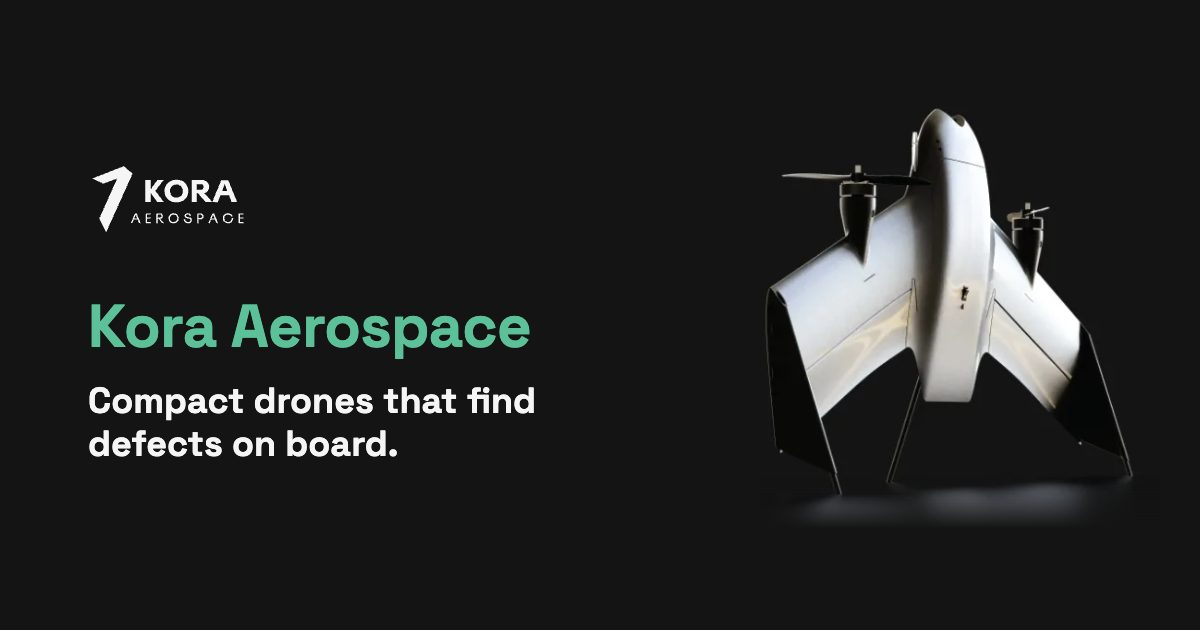
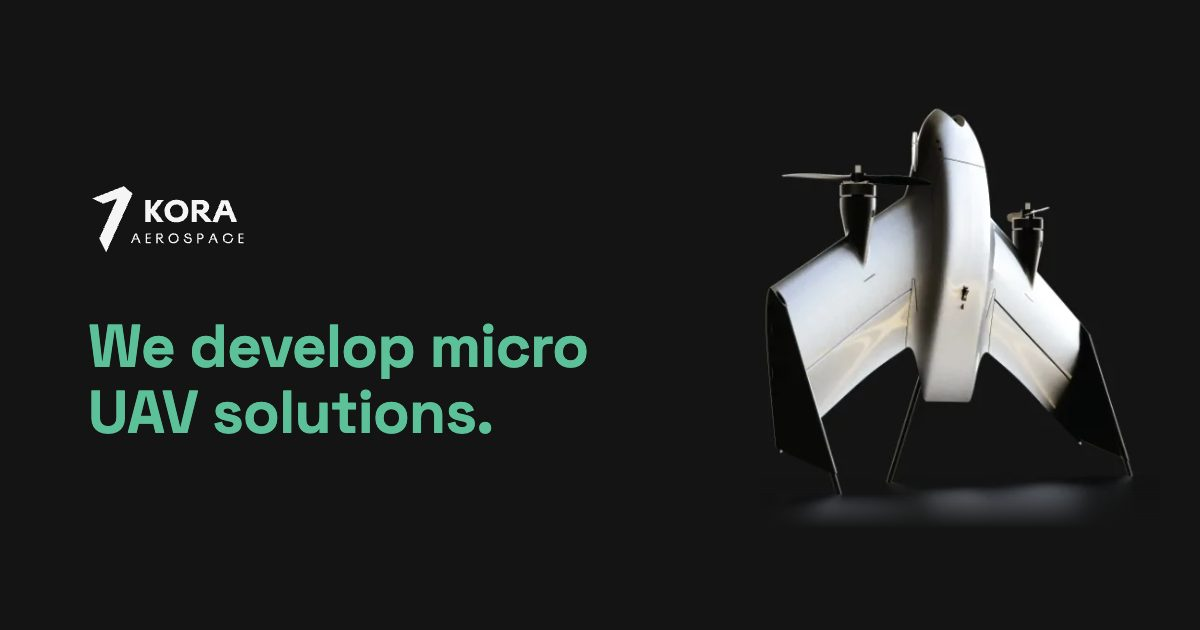
Products page in design v2
Message: "We develop micro UAV solutions." Products section with
Stratus and the Kora Flight Controller, each one line and four
features. Removed the spec line, segment list and partner terms.

Design v2 tokens and the designer's review: no divider lines, section
padding from --kora-section, larger type steps, 36ch text. Each image
section is at least one screen minus the section padding, so a
section-aligned screen shows one headline at any height.

Nav: 48px between items, small text, wraps under the logo below
about 350px instead of running off the edge.

Copy passed through the humanizer skill.

Claude-Session: https://claude.ai/code/session_01MxMyRXhMBTxKJm4Ge5ATvu

Changed region(s): [[0.0617, 0.4825, 0.4933, 0.7238], [0.0617, 0.2714, 0.2158, 0.3921]]

diff --git a/index.html b/index.html
@@ -3,15 +3,15 @@
 <head>
   <meta charset="utf-8">
   <meta name="viewport" content="width=device-width, initial-scale=1">
-  <title>Kora Aerospace | Compact inspection drones with AI on board</title>
-  <meta name="description" content="Kora Aerospace builds compact drones that find defects on board, for the inspection job of each customer.">
+  <title>Kora Aerospace | Micro UAV solutions</title>
+  <meta name="description" content="We develop micro UAV solutions: the Stratus micro VTOL tailsitter and the Kora Flight Controller, for energy and infrastructure inspection.">
   <meta name="color-scheme" content="dark">
   <meta name="theme-color" content="#141414">
   <link rel="canonical" href="https://www.kora-aerospace.com/">
   <meta property="og:type" content="website">
   <meta property="og:url" content="https://www.kora-aerospace.com/">
   <meta property="og:title" content="Kora Aerospace">
-  <meta property="og:description" content="Compact inspection drones with AI on board, built for your job.">
+  <meta property="og:description" content="We develop micro UAV solutions for energy and infrastructure inspection.">
   <meta property="og:image" content="https://www.kora-aerospace.com/media/og.jpg">
   <link rel="icon" href="/favicon.ico" sizes="48x48">
   <link rel="icon" href="/favicon.svg" type="image/svg+xml">
@@ -23,39 +23,51 @@
 <body>
   <header class="wrap top">
     <a href="/"><img src="/media/logo.svg" alt="Kora Aerospace" width="120" height="56"></a>
-    <a href="#contact">Contact</a>
+    <nav><a href="#products">Products</a><a href="#contact">Contact</a></nav>
   </header>
 
   <main>
     <section class="wrap hero">
+      <h1>We develop micro UAV solutions.</h1>
+      <p class="lead">We design drones and flight controllers for energy and infrastructure inspection.</p>
+      <p class="actions"><a class="btn" href="#contact">Contact us</a></p>
+    </section>
+
+    <section class="wrap split" id="products">
+      <!-- PLACEHOLDER: 433px crop of the poster render, shown at native size; need the source render file -->
+      <img src="/media/render.webp" alt="Stratus micro VTOL tailsitter, standing on its tail" width="433" height="462" class="render">
       <div class="text">
-        <h1>Kora Aerospace</h1>
-        <p class="statement">Compact drones that find defects on board.</p>
-        <p class="lead">You tell us what you must inspect. We build the drone for the job.</p>
-        <p><a class="btn" href="#contact">Become a partner</a></p>
+        <p class="label">Drone</p>
+        <h2>Stratus</h2>
+        <p class="lead">Stratus is our micro VTOL tailsitter for inspection.</p>
+        <ul class="features">
+          <li>Takes off and lands vertically, cruises on a wing</li>
+          <li>Fits in a briefcase</li>
+          <li>Finds defects in flight with on-board AI</li>
+          <li>Carries the payload your job needs</li>
+        </ul>
       </div>
-      <!-- PLACEHOLDER: low-res crop of the poster render; need the source render file -->
-      <img class="render" src="/media/render.webp" alt="Kora tailsitter VTOL drone, standing on its tail" width="433" height="462" fetchpriority="high">
+    </section>
+
+    <section class="wrap split flip">
+      <img src="/media/board.webp" alt="Kora Flight Controller with an NVIDIA Jetson module mounted" width="1088" height="1552" loading="lazy" decoding="async">
+      <div class="text">
+        <p class="label">Avionics</p>
+        <h2>Kora Flight Controller</h2>
+        <p class="lead">Our flight controller puts the autopilot and an AI computer on one board.</p>
+        <ul class="features">
+          <li>Takes an NVIDIA Jetson module</li>
+          <li>Fits in a micro UAV</li>
+          <li>Processes images in flight without a cloud link</li>
+          <li>Can take another AI module when your job needs it</li>
+        </ul>
+      </div>
     </section>
 
     <section class="wrap split">
       <div class="text">
-        <h2>Defects found during the flight.</h2>
-        <p class="lead">An NVIDIA Jetson on our own flight controller. No cloud link: your data stays with you.</p>
-      </div>
-      <img src="/media/board.webp" alt="Kora flight controller board with an NVIDIA Jetson module mounted" width="772" height="1100" loading="lazy" decoding="async">
-    </section>
-
-    <section class="wrap">
-      <h2>Fits in a briefcase.</h2>
-      <p class="lead">A fixed-wing tailsitter VTOL. One technician carries it to the site.</p>
-      <p class="label"><span>1.3–1.5 kg</span> · <span>500 g payload</span> · <span>~45 min flight*</span> · <span>~30 km range*</span></p>
-      <p class="note">* With payload. Team figures, not yet measured on a customer mission.</p>
-    </section>
-
-    <section class="wrap split flip">
-      <div class="text">
-        <h2>Every layer in house.</h2>
+        <h2>We build for your field.</h2>
+        <p class="lead">We fit the drone and its payload to your job, and we make every layer ourselves.</p>
         <!-- Icons: Lucide 1.47.0 (ISC, see LICENSES/) -->
         <ul class="layers">
           <li><svg class="icon" viewBox="0 0 24 24" aria-hidden="true"><rect width="18" height="18" x="3" y="3" rx="2"/><path d="M11 9h4a2 2 0 0 0 2-2V3"/><circle cx="9" cy="9" r="2"/><path d="M7 21v-4a2 2 0 0 1 2-2h4"/><circle cx="15" cy="15" r="2"/></svg>Circuit board</li>
@@ -63,38 +75,15 @@
           <li><svg class="icon" viewBox="0 0 24 24" aria-hidden="true"><path d="M12 20v2M12 2v2M17 20v2M17 2v2M2 12h2M2 17h2M2 7h2M20 12h2M20 17h2M20 7h2M7 20v2M7 2v2"/><rect x="4" y="4" width="16" height="16" rx="2"/><rect x="8" y="8" width="8" height="8" rx="1"/></svg>On-board AI</li>
           <li><svg class="icon" viewBox="0 0 24 24" aria-hidden="true"><path d="M18 5a2 2 0 0 1 2 2v8.526a2 2 0 0 0 .212.897l1.068 2.127a1 1 0 0 1-.9 1.45H3.62a1 1 0 0 1-.9-1.45l1.068-2.127A2 2 0 0 0 4 15.526V7a2 2 0 0 1 2-2z"/><path d="M20.054 15.987H3.946"/></svg>Ground software</li>
         </ul>
-        <p class="lead">A change does not wait for a supplier. Team experience: light aircraft, custom avionics, embedded AI, production.</p>
       </div>
-      <figure>
-        <img src="/media/wing.webp" alt="Hand holding a white flying-wing drone in a field" width="1400" height="694" loading="lazy" decoding="async">
-        <figcaption>Flying wing built and flown by the team, 2025.</figcaption>
-      </figure>
-    </section>
-
-    <section class="wrap">
-      <h2>For teams that inspect far from the office.</h2>
-      <ul class="grid">
-        <li><h3>Corridors</h3><p>Power lines, pipelines, railways.</p></li>
-        <li><h3>Remote sites</h3><p>Solar and wind farms, mines, telecom towers.</p></li>
-        <li><h3>Your own staff</h3><p>Your technicians fly it. We do not sell pilot days.</p></li>
-      </ul>
-    </section>
-
-    <section class="wrap">
-      <h2>How it works.</h2>
-      <ol class="grid">
-        <li><p class="label">01</p><h3>Development</h3><p>You fund the development of your drone.</p></li>
-        <li><p class="label">02</p><h3>Drones</h3><p>You buy the drones.</p></li>
-        <li><p class="label">03</p><h3>Software</h3><p>Yearly subscription: mission planning, data, defect reports.</p></li>
-      </ol>
+      <img src="/media/wing.webp" alt="A flying-wing drone built and flown by the Kora team, held by hand in a field" width="1600" height="794" loading="lazy" decoding="async">
     </section>
 
     <section class="wrap contact" id="contact">
-      <h2>We are looking for our first partner customer.</h2>
-      <p class="lead">The partner funds the first development. We build the drone for its need.</p>
+      <h2>Tell us what you must inspect.</h2>
       <!-- PLACEHOLDER: company mail address -->
       <div class="links">
-        <a class="btn" href="mailto:kora.aerospace@gmail.com?subject=Partner%20inquiry">Become a partner</a>
+        <a class="btn" href="mailto:kora.aerospace@gmail.com">Contact us</a>
         <a href="mailto:kora.aerospace@gmail.com?subject=Investor%20inquiry">Investors and programs</a>
         <a href="https://student.kora-aerospace.com/">Join the student team</a>
       </div>
@@ -102,7 +91,7 @@
   </main>
 
   <footer class="wrap">
-    <span>© 2026 Kora Aerospace · ODTÜ Teknokent pre-incubation</span>
+    <span>© 2026 Kora Aerospace · In the ODTÜ Teknokent pre-incubation program</span>
     <a href="mailto:kora.aerospace@gmail.com">kora.aerospace@gmail.com</a>
     <!-- PLACEHOLDER: confirm the LinkedIn page exists -->
     <a href="https://www.linkedin.com/company/kora-aerospace">LinkedIn</a>

diff --git a/styles.css b/styles.css
@@ -1,4 +1,4 @@
-/* Layout only. Colors, type and space come from tokens.css (design/tokens.css). */
+/* Layout only. Colors, type and space come from tokens.css (copy of design/tokens.css). */
 
 /* Self-hosted fonts (SIL OFL 1.1, see LICENSES/): faster than Google Fonts and no visitor data to Google. */
 @font-face { font-family: 'Space Grotesk'; font-weight: 400 700; font-display: swap; src: url(/fonts/space-grotesk-latin.woff2) format('woff2'); unicode-range: U+0000-00FF, U+0131, U+0152-0153, U+02BB-02BC, U+02C6, U+02DA, U+02DC, U+0304, U+0308, U+0329, U+2000-206F, U+20AC, U+2122, U+2191, U+2193, U+2212, U+2215, U+FEFF, U+FFFD; }
@@ -17,70 +17,70 @@ body {
 @media (prefers-reduced-motion: no-preference) { html { scroll-behavior: smooth; } }
 img { display: block; max-width: 100%; height: auto; }
 a { color: inherit; transition: color var(--kora-ease), background-color var(--kora-ease); }
-h1, h2, h3, p, ul, ol, figure { margin: 0; }
-h1, h2, h3, .statement { font-weight: 700; line-height: var(--kora-lh-tight); }
+h1, h2, h3, p, ul, figure { margin: 0; }
+h1, h2, h3 { font-weight: 700; line-height: var(--kora-lh-tight); letter-spacing: -0.02em; text-wrap: balance; }
 
-/* Scale: display, h1, h2, body, small, label. */
-h1 { font-size: var(--kora-fs-display); color: var(--kora-green); letter-spacing: -0.02em; }
-h2, .statement { font-size: var(--kora-fs-h1); letter-spacing: -0.01em; }
+/* Scale: display, h1, h2, lead, body, small, label. */
+h1 { font-size: var(--kora-fs-display); color: var(--kora-green); }
+h2 { font-size: var(--kora-fs-h1); }
 h3 { font-size: var(--kora-fs-h2); }
-.lead { color: var(--kora-text-muted); max-width: 44ch; }
-.note, figcaption, footer { font-size: var(--kora-fs-small); color: var(--kora-text-muted); }
-.label { font: 400 var(--kora-fs-label)/var(--kora-lh) var(--kora-font-mono); text-transform: uppercase; letter-spacing: 0.12em; }
-.label span { white-space: nowrap; }
+.lead { font-size: var(--kora-fs-lead); color: var(--kora-text-muted); max-width: var(--kora-measure); }
+.label { font: 400 var(--kora-fs-label)/var(--kora-lh) var(--kora-font-mono); text-transform: uppercase; letter-spacing: 0.12em; color: var(--kora-text-muted); }
+footer { font-size: var(--kora-fs-small); color: var(--kora-text-muted); }
 
-.wrap { max-width: var(--kora-max); margin-inline: auto; padding-inline: var(--kora-s2); }
-section { padding-block: calc(var(--kora-s12) / 2); border-top: 1px solid var(--kora-line); }
-section > * + *, .text > * + * { margin-top: var(--kora-s2); }
-section > .grid, .links { margin-top: var(--kora-s6); }
+/* Space: one idea per screen, empty space instead of lines. */
+.wrap { max-width: calc(var(--kora-max) + 2 * var(--kora-gutter)); margin-inline: auto; padding-inline: var(--kora-gutter); }
+section { padding-block: var(--kora-section); }
+section > * + *, .text > * + * { margin-top: var(--kora-stack); }
+.text > .label + h2 { margin-top: var(--kora-s2); }
+.actions, .links, .features, .layers { margin-top: var(--kora-s6); }
 
 .top { display: flex; align-items: center; justify-content: space-between; padding-block: var(--kora-s3); }
+/* Wraps below the logo only on very narrow screens, so no item is ever cut off. */
+.top { flex-wrap: wrap; gap: var(--kora-s2); }
+.top nav { display: flex; gap: var(--kora-s6); font-size: var(--kora-fs-small); }
 .top a { text-decoration: none; }
-.top a:hover { color: var(--kora-green); }
+.top nav a:hover { color: var(--kora-green); }
 
-.hero { border: 0; padding-top: var(--kora-s4); }
-.hero, .split { display: grid; gap: var(--kora-s6); align-items: center; grid-template-columns: 1fr 1fr; }
-.hero > *, .split > * { margin-top: 0; }
-.hero { grid-template-columns: 1.2fr 1fr; }
-.hero .text > * + * { margin-top: var(--kora-s3); }
-.render {
-  justify-self: center;
-  width: min(100%, 433px);
-  /* The render's background is --kora-bg; fade only the cut edge of its floor. */
-  mask-image: linear-gradient(#000 85%, transparent);
-}
-.split img { justify-self: center; max-height: 560px; width: auto; border-radius: var(--kora-radius); }
-.flip > .text { order: 2; }
-figcaption { margin-top: var(--kora-s1); }
+.hero, .contact { display: flex; flex-direction: column; align-items: center; text-align: center; }
+.hero { justify-content: center; }
+
+.split { display: grid; grid-template-columns: 1fr 1fr; gap: var(--kora-s12); align-items: center; }
+.split > * { margin-top: 0; }
+.flip > :first-child { order: 2; }
+.split > img { justify-self: center; max-height: 70vh; width: auto; border-radius: var(--kora-radius); }
+/* The render's background is --kora-bg; fade only the cut edge of its floor. */
+.render { mask-image: linear-gradient(#000 85%, transparent); }
 
 .btn {
-  display: inline-block; padding: var(--kora-s2) var(--kora-s3); border-radius: var(--kora-radius);
+  display: inline-block; padding: var(--kora-s2) var(--kora-s4); border-radius: var(--kora-radius);
   background: var(--kora-green); color: var(--kora-on-green); font-weight: 700; text-decoration: none;
 }
 .btn:hover { background: var(--kora-green-dim); }
 
-.grid { list-style: none; padding: 0; display: grid; gap: var(--kora-s4); grid-template-columns: repeat(auto-fit, minmax(220px, 1fr)); }
-.grid > li { border-top: 1px solid var(--kora-line); padding-top: var(--kora-s2); }
-.grid > li > * + * { margin-top: var(--kora-s1); }
-.grid p, .grid .label { color: var(--kora-text-muted); }
+.features { list-style: none; padding: 0; max-width: var(--kora-measure); }
+.features li { padding-block: var(--kora-s2); border-top: 1px solid var(--kora-line); }
+.features li:last-child { border-bottom: 1px solid var(--kora-line); }
 
-.layers { list-style: none; padding: 0; display: grid; gap: var(--kora-s3); grid-template-columns: 1fr 1fr; }
+.layers { list-style: none; padding: 0; display: grid; grid-template-columns: 1fr 1fr; gap: var(--kora-s4) var(--kora-s6); }
 .layers li { display: flex; align-items: center; gap: var(--kora-s2); font-weight: 500; }
 .icon { flex: none; width: 24px; height: 24px; fill: none; stroke: var(--kora-green); stroke-width: 1.5; stroke-linecap: round; stroke-linejoin: round; }
 
-.contact { text-align: center; }
-.contact .lead { margin-inline: auto; }
-.links { display: flex; flex-wrap: wrap; justify-content: center; align-items: center; gap: var(--kora-s2) var(--kora-s4); }
+.links { display: flex; flex-wrap: wrap; justify-content: center; align-items: center; gap: var(--kora-s3) var(--kora-s6); }
 .links a:not(.btn) { text-decoration-color: var(--kora-green); text-underline-offset: 4px; }
 .links a:not(.btn):hover { color: var(--kora-green); }
 
-footer { display: flex; flex-wrap: wrap; gap: var(--kora-s1) var(--kora-s4); padding-block: var(--kora-s4); border-top: 1px solid var(--kora-line); }
+footer { display: flex; flex-wrap: wrap; gap: var(--kora-s1) var(--kora-s4); padding-block: var(--kora-s12) var(--kora-s8); }
 footer a { text-decoration: none; }
 footer a:hover { color: var(--kora-green); }
 
+@media (min-width: 761px) {
+  /* About 80vh; keeps the next headline below the fold of a section-aligned screen at any height. */
+  .hero, .split { min-height: calc(100vh - var(--kora-section)); }
+}
 @media (max-width: 760px) {
-  .hero, .split { grid-template-columns: 1fr; }
-  .flip > .text { order: 0; }
-  .split img { max-height: 400px; }
-  section { padding-block: calc(var(--kora-s8) / 2); }
+  .split { grid-template-columns: 1fr; gap: var(--kora-s8); }
+  .flip > :first-child { order: 0; }
+  .split > img { width: 100%; max-height: none; }
+  .layers { gap: var(--kora-s3); }
 }

diff --git a/tokens.css b/tokens.css
@@ -1,4 +1,5 @@
-/* Kora Aerospace design tokens. Source of truth: design/DESIGN.md */
+/* Kora Aerospace design tokens v2 (2026-10-20). Rules: design/DESIGN.md.
+   Fonts are self-hosted by each site; this file loads nothing. */
 
 :root {
   /* Color: dark first, from the recruitment poster */
@@ -11,30 +12,37 @@
   --kora-green-dim: #3e8a6c;   /* hover/pressed */
   --kora-on-green: #141414;    /* text on green */
 
-  /* Type */
+  /* Type: big steps between levels, so hierarchy comes from size and weight */
   --kora-font: 'Space Grotesk', 'Helvetica Neue', Arial, sans-serif;
   --kora-font-mono: 'JetBrains Mono', ui-monospace, monospace;
-  --kora-fs-display: clamp(2.5rem, 6vw, 4.5rem);
-  --kora-fs-h1: clamp(2rem, 4vw, 3rem);
-  --kora-fs-h2: 1.5rem;
-  --kora-fs-body: 1rem;
+  --kora-fs-display: clamp(3rem, 8vw, 6rem);       /* 48 to 96px */
+  --kora-fs-h1: clamp(2.25rem, 5vw, 4rem);         /* 36 to 64px */
+  --kora-fs-h2: clamp(1.375rem, 2.2vw, 1.75rem);   /* 22 to 28px */
+  --kora-fs-lead: clamp(1.125rem, 1.8vw, 1.375rem);/* 18 to 22px, under a heading */
+  --kora-fs-body: 1.0625rem;                       /* 17px */
   --kora-fs-small: 0.875rem;
   --kora-fs-label: 0.75rem;    /* mono, uppercase, letter-spacing .12em */
-  --kora-lh: 1.55;
-  --kora-lh-tight: 1.1;
+  --kora-lh: 1.7;
+  --kora-lh-tight: 1.05;
+  --kora-measure: 36ch;        /* max line length of lead and body text */
 
-  /* Space: 8px grid */
-  --kora-s1: 0.5rem;
-  --kora-s2: 1rem;
-  --kora-s3: 1.5rem;
-  --kora-s4: 2rem;
-  --kora-s6: 3rem;
-  --kora-s8: 4rem;
-  --kora-s12: 6rem;            /* between sections */
-  --kora-max: 1120px;          /* content width */
+  /* Space: 8px grid, larger top end */
+  --kora-s1: 0.5rem;           /* 8 */
+  --kora-s2: 1rem;             /* 16 */
+  --kora-s3: 1.5rem;           /* 24 */
+  --kora-s4: 2rem;             /* 32 */
+  --kora-s6: 3rem;             /* 48 */
+  --kora-s8: 4rem;             /* 64 */
+  --kora-s12: 6rem;            /* 96 */
+  --kora-s16: 8rem;            /* 128 */
+  --kora-s20: 10rem;           /* 160 */
+  --kora-gutter: clamp(1.5rem, 6vw, 6rem);         /* page side margin: 24 to 96px */
+  --kora-section: clamp(6rem, 16vh, 10rem);        /* padding above and below each section: 96 to 160px */
+  --kora-stack: var(--kora-s4);                    /* heading to text */
+  --kora-max: 1200px;          /* content width, inside the gutters */
 
   --kora-radius: 4px;
-  --kora-ease: 150ms ease-out;
+  --kora-ease: 300ms cubic-bezier(.2, 0, 0, 1);    /* calm, no bounce */
 }
 
 /* Light surfaces (print, documents): swap only these */

diff --git a/README.md b/README.md
@@ -9,7 +9,7 @@ Design language: `design/DESIGN.md` in the monorepo (owner: designer).
 | --- | --- |
 | `index.html` | The landing page. |
 | `404.html` | Shown for unknown paths, such as old kora-aerospace.org links. |
-| `tokens.css` | Copy of `design/tokens.css` without its Google Fonts `@import`. Do not edit here. |
+| `tokens.css` | Copy of `design/tokens.css`. Do not edit here. |
 | `styles.css` | Self-hosted `@font-face` rules and the layout. Uses only the `--kora-*` tokens. |
 | `fonts/` | Space Grotesk and JetBrains Mono, woff2, latin and latin-ext. |
 | `media/` | Logo (`design/logos/kora-logo-light.svg`), WebP photos, `og.jpg` link preview. |
@@ -20,10 +20,13 @@ Run locally:
 
     python3 -m http.server 8080
 
-Update the design tokens (from the monorepo root). The fonts are
-self-hosted, so the `@import` line is left out:
+Update the design tokens (from the monorepo root):
 
-    grep -v '^@import' design/tokens.css > web/kora-aerospace-web/tokens.css
+    cp design/tokens.css web/kora-aerospace-web/tokens.css
+
+To check a phone width, load the page in an iframe of that width. A
+headless Chrome window cannot be narrower than about 500 px, so a
+`--window-size=390,...` screenshot shows a 500 px layout cut at 390 px.
 
 Add an image: convert it to WebP, about 1400 px wide, and set `width`,
 `height` and `loading="lazy"` on the `<img>`:
